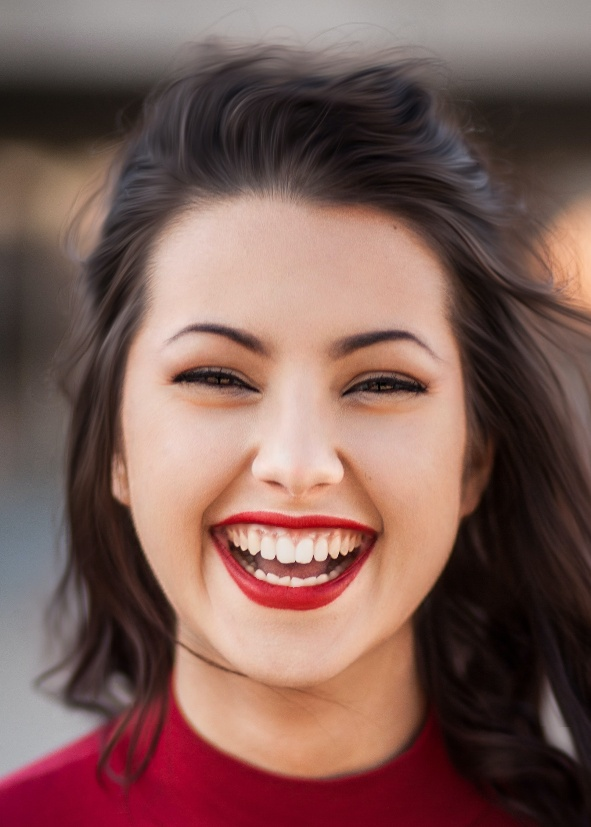
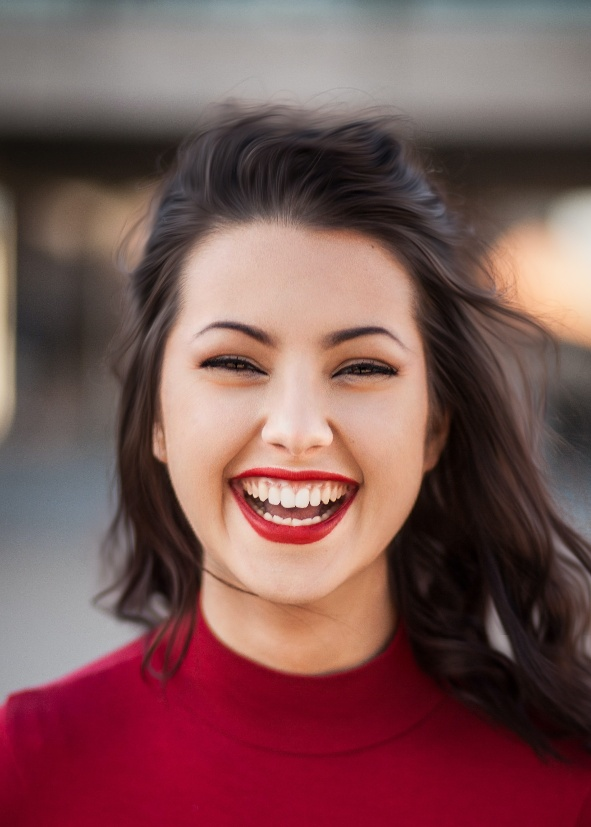
parameter tweak

diff --git a/main.py b/main.py
@@ -5,7 +5,7 @@ import time
 from utils import *
 
 # IMAGE_PADDING_LEFT_RIGHT = 0.5
-IMAGE_PADDING_UP_DOWN = 0.4
+IMAGE_PADDING_UP_DOWN = 0.6
 IMG_W_TO_H_RATIO = 2.5 / 3.5
 
 MAX_EYES_Y_DIFF_PCT = 5
@@ -35,8 +35,8 @@ def crop_img(frame, f):
     x = left
     w = right - left
 
-    y_start = (y - h * pad_ud) * 0.95
-    y_end = ((y + h) + h * pad_ud) * 0.95
+    y_start = y - h * pad_ud
+    y_end = (y + h) + h * pad_ud
 
     i_h = y_end - y_start
     i_w = i_h * IMG_W_TO_H_RATIO
@@ -102,7 +102,7 @@ def do_detect(stream_path):
     if frame is None:
         return 'Image {} not found'.format(stream_path)
 
-    start_time = time.time()
+    # start_time = time.time()
     # print("Scale: ", calc_scale(frame))
     faces = rf.detect_faces(frame, thresh=0.1, scale=calc_scale(frame))
 
@@ -124,15 +124,13 @@ def do_detect(stream_path):
     if err is not None:
         return err
 
-    # print('==> All done!')
-    # print('***********************************************************')
     cv2.imwrite('imgs/new/' + stream_path, scale_img(frame))
     return None
 
 
 if __name__ == '__main__':
     # """
-    for i in ['1.jpg', 'a.jpg', 'j.jpg', 'm.jpg', 'r.jpeg', 'w.jpg', 's1.jpg', 's2.jpg', 'l1.jpg', 'l2.jpg', 'l3.jpg']:
+    for i in ['1.jpg', 'a.jpg', 'j.jpg', 'm.jpg', 'w.jpg', 's1.jpg', 's2.jpg', 'l1.jpg', 'l2.jpg', 'l3.jpg']:
         msg = do_detect(i)
         if msg is not None:
             print(msg)
